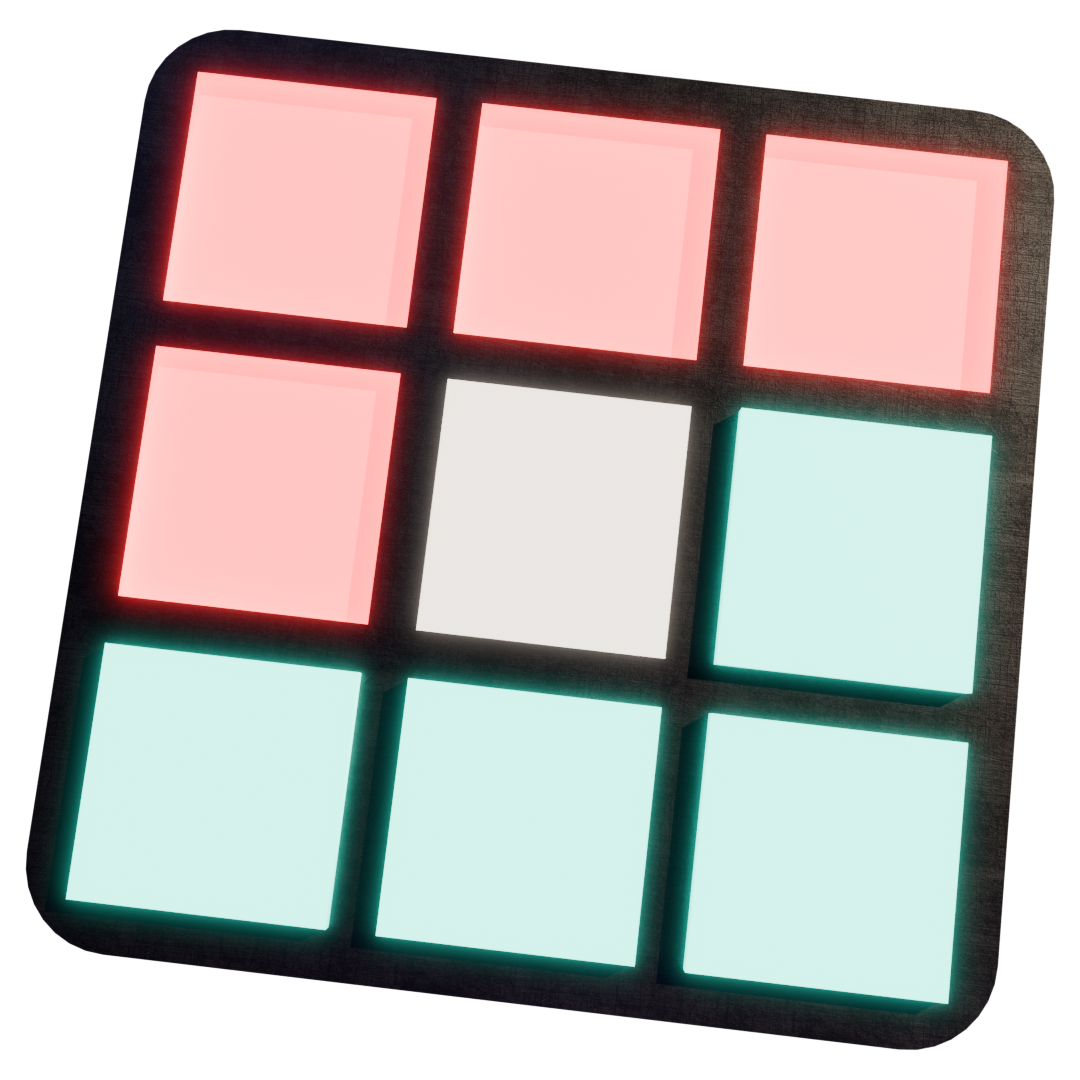
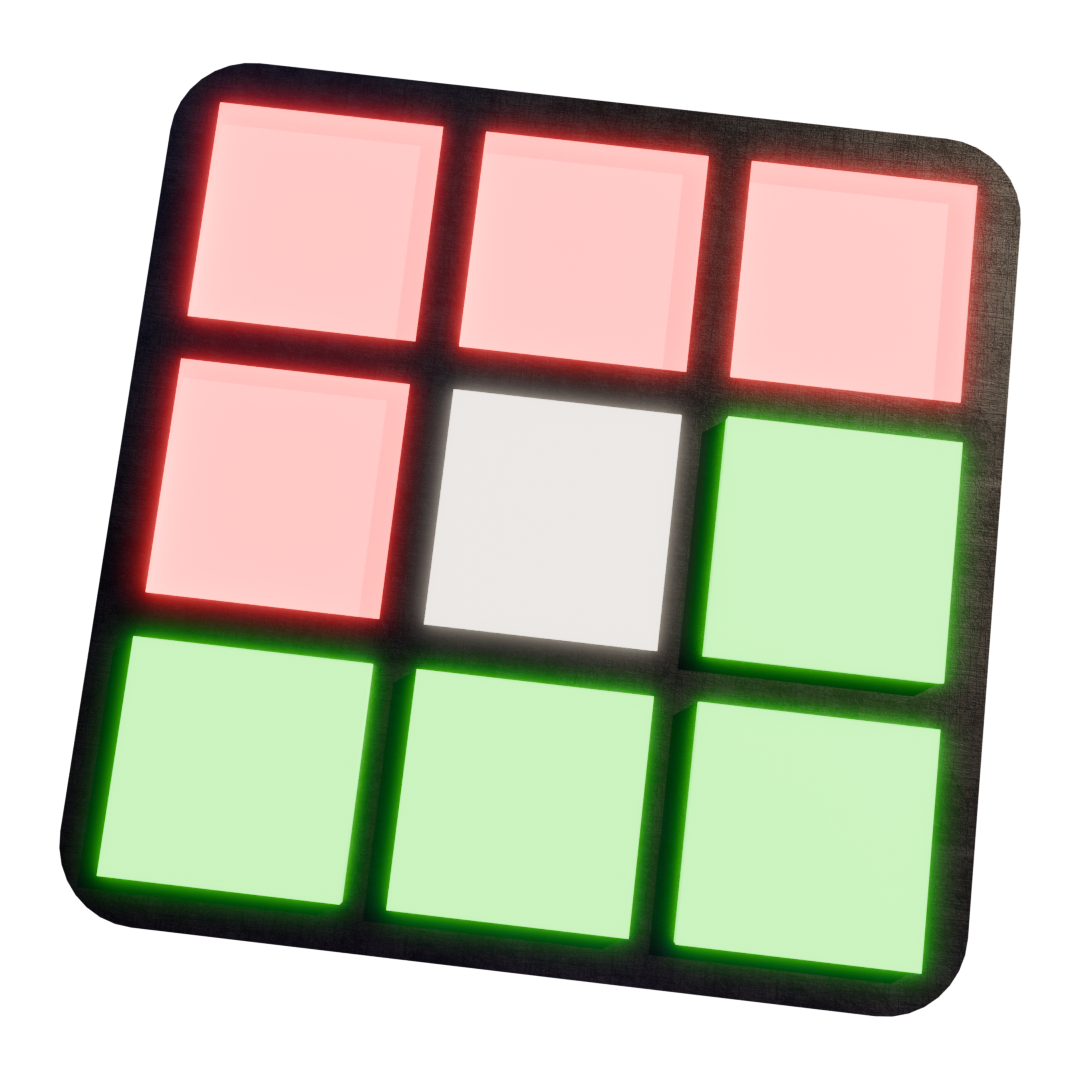
Added polish to Wordsle: > New instructions popup. > New popups for winning and losing that display guesses used or correct answer. > Fixed submit button sizing issues.
Reworked home page:
> Changed Wordsle logo to transparent background, and to match new colours.
> Changed SegFault logo to also have transparent background, and brightened colours.
> Removed placeholder section, to be added back when I decide on a third project.

diff --git a/CSS/style.css b/CSS/style.css
@@ -203,6 +203,7 @@
     margin-top: 4vh;
     margin-right: 3vh;
     width: 100%;
+    
 }
 
 
@@ -215,6 +216,74 @@
 
 
 #wordsleButton:active{
+    box-shadow: 0px 0px 30px 8px rgba(0, 255, 225, 0.5);
+    background-color: #00ffe1;
+}
+
+
+
+#wordsleSubmit{
+    height: 7.5vh;
+}
+
+
+
+#wordsleStatusBox{
+    z-index: 49;
+    position: fixed;
+    top: 50vh;
+    left: 50vw;
+    transform: translate(-50%, -50%);
+
+    background: #333;
+    box-shadow: 0px 0px 32px 2px rgba( 34, 208, 187, 0.37 );
+    backdrop-filter: blur( 10px );
+    -webkit-backdrop-filter: blur( 10px );
+    border-radius: 5px;
+    color: rgb(255, 255, 255);
+
+    text-align: center;
+    vertical-align: middle;
+    align-content: center;
+    width: 40%;
+    height: fit-content;
+}
+
+
+
+#wordsleStatusTitle{
+    margin: 10%;
+}
+
+
+
+#wordsleStatusText{
+    margin: 10%;
+}
+
+
+
+#wordsleStatusButton{
+    margin: 10%;
+
+    color: white;
+    background-color: #22d0bb;
+    border: #333;
+    text-align: center;
+    vertical-align: middle;
+    font-size: 250%;
+}
+
+
+
+#wordsleStatusButton:hover{
+    box-shadow: 0px 0px 30px 8px rgba(42, 255, 230, 0.5);
+    background-color: #22d0bb;
+}
+
+
+
+#wordsleStatusButton:active{
     box-shadow: 0px 0px 30px 8px rgba(0, 255, 225, 0.5);
     background-color: #00ffe1;
 }
@@ -235,7 +304,6 @@
         font-size: 280%;       
     }
 
-
 }
 
 
@@ -252,6 +320,10 @@
 
     #wordsleButton{
         font-size: 227.5%;      
+    }
+    
+    #wordsleSubmit{
+        height: 6.5vh;
     }
 
 
@@ -286,6 +358,14 @@
         font-size: 175%;  
     }
 
+    #wordsleStatusBox{
+        width: 60%;
+    }
+    
+    #wordsleSubmit{
+        height: 6vh;
+    }
+
 
 }
 
@@ -314,7 +394,23 @@
         font-size: 122.5%;        
     }
 
+    #wordsleStatusButton{
+        font-size: 200%;
+    }
+    
+    #wordsleSubmit{
+        height: 5.5vh;
+    }
 
+
+}
+
+
+
+@media only screen and (max-width: 700px) {
+    #wordsleSubmit{
+        height: 5vh;
+    }    
 }
 
 
@@ -344,6 +440,18 @@
         width: fit-content; 
     }
 
+    #wordsleStatusBox{
+        width: 80%;
+    }
+
+    #wordsleStatusButton{
+        font-size: 150%;
+    }
+    
+    #wordsleSubmit{
+        height: 4vh;
+    }
+
 }
 
 
@@ -352,5 +460,13 @@
     #wordsleButton{
         font-size: 80%;  
         width: fit-content;
+    }
+
+    #wordsleStatusBox{
+        width: 90%;
+    }
+    
+    #wordsleSubmit{
+        height: 3vh;
     }
 }

diff --git a/Scripts/wordsle.js b/Scripts/wordsle.js
@@ -1,6 +1,11 @@
 const inputBox = document.getElementById("wordsleInput");
 const inputCard = document.getElementById("wordsleInputCard");
 
+const statusTitle = document.getElementById("wordsleStatusTitle");
+const statusText = document.getElementById("wordsleStatusText");
+const statusButton = document.getElementById("wordsleStatusButton");
+const statusBox = document.getElementById("wordsleStatusBox");
+
 const submitButton = document.getElementById("wordsleButton");
 
 const rowOne = document.getElementById("wordsleR1");
@@ -62,7 +67,7 @@ function validateInput()
         }
     }
 
-    if(text.length == 5 && wrongLetters == false)
+    if(text.length == 5)
     {
         return true;
     }
@@ -83,6 +88,50 @@ function validateInput()
 
         return false;
     }
+}
+
+
+
+function closeStatus()
+{
+    statusBox.style.zIndex = -1;
+    statusBox.style.visibility = "hidden";
+    statusButton.disabled = true;
+}
+
+
+
+function doWin()
+{
+    statusBox.style.zIndex = 49;
+    statusBox.style.visibility = "visible";
+    statusButton.disabled = false;
+
+    if(guesses == 5)
+    {
+        winningText = "You used " + (6 - guesses) + " guess.";
+    }
+    else
+    {
+        winningText = "You used " + (6 - guesses) + " guesses.";
+    }
+
+    statusTitle.innerHTML = "You Win!"
+    statusText.innerHTML = winningText;
+}
+
+
+
+function doLose()
+{
+    statusBox.style.zIndex = 49;
+    statusBox.style.visibility = "visible";
+    statusButton.disabled = false;
+
+    losingText = "The correct word was " + todaysWord + ".";
+
+    statusTitle.innerHTML = "You Lose!";
+    statusText.innerHTML = losingText;
 }
 
 
@@ -192,8 +241,17 @@ function check_word(word, target_word)
 
     guesses -= 1
 
-    console.log(goal_checklist)
-    console.log(guess_print)
+    if(word == target_word)
+    {
+        won = true;
+        doWin();
+    }
+
+    else if(guesses == 0)
+    {
+        lost = true;
+        doLose()
+    }
     
 }
 
@@ -206,7 +264,7 @@ function getInput()
     let text = inputBox.value;
     text = text.toUpperCase();
 
-    if(check == true && guesses > 0)
+    if(check == true && guesses > 0 && won == false && lost == false)
     {
         check_word(text, todaysWord);
     }
@@ -223,4 +281,8 @@ inputBox.addEventListener("keydown", function (e) {
         getInput();
     }
 });
+
+statusButton.addEventListener("click", function (e) {
+        closeStatus();
+})
 

diff --git a/index.html b/index.html
@@ -54,12 +54,15 @@
 
 
         <div class="row mainCardRow">
+
+            <div class="col-lg-1 d-flex justify-content-center"></div>
+
             <div class="col-lg-4 d-flex justify-content-center">
 
                 <div class="card tempCard">
                     <div class="row justify-content-center">
                         <div class="col-lg">
-                            <img class="card-img" src="Images/wordsle1.png" alt="Wordsle Logo, a black metal grid with glowing blue and red squares.">
+                            <img class="card-img" src="Images/wordsle2.png" alt="Wordsle Logo, a black metal grid with glowing blue and red squares.">
                         </div>
                     </div>
 
@@ -75,13 +78,14 @@
 
             </div>
 
+            <div class="col-lg-2 d-flex justify-content-center"></div>
 
             <div class="col-lg-4 d-flex justify-content-center">
                 <div class="card tempCard">
 
                     <div class="row justify-content-center">
                         <div class="col-lg">
-                            <img class="card-img" src="Images/SegFault.jpg" alt="Segmentation Fault logo, a blue and orange S and F over a white eye.">
+                            <img class="card-img" src="Images/SegFault1.png" alt="Segmentation Fault logo, a blue and orange S and F over a white eye.">
                         </div>
                     </div>
 
@@ -95,8 +99,10 @@
 
                 </div>
             </div>
-                
 
+            <div class="col-lg-1 d-flex justify-content-center"></div>
+                
+            <!--
             <div class="col-lg-4 d-flex justify-content-center">
                 <div class="card tempCard">
 
@@ -116,6 +122,7 @@
 
                 </div>
             </div>
+            --->
                 
                 
         </div>

diff --git a/wordsle.html b/wordsle.html
@@ -480,7 +480,7 @@
 
                     <div class="row justify-content-center">
                         <div class="col-lg cardBody">
-                            <input id="wordsleInput" type="text" maxlength="5" placeholder="Guess a letter..." autocapitalize="on"></input>
+                            <input id="wordsleInput" type="text" maxlength="5" placeholder="Guess a word..." autocapitalize="on"></input>
                         </div>
                     </div>
 
@@ -490,9 +490,22 @@
 
             <div class="col-2 d-flex justify-content-center">
 
-                <button type="button" class="btn btn-primary btn-lg btn-block" id="wordsleButton"> ↩ </button>
+                <button type="button" class="btn btn-primary btn-lg btn-block" id="wordsleButton"> <img id="wordsleSubmit" src="Images/submitIcon.png"></img> </button>
 
             </div>
+        </div>
+
+        <div class="card" id="wordsleStatusBox">
+            <div class="row justify-content-center">
+                <div class="col-lg cardBody">
+                    <h1 id="wordsleStatusTitle">How To Play:</h1>
+                    <h3 id="wordsleStatusText">Type a word in the text box and hit the button to make a guess. Letters in the CORRECT SPOT will turn GREEN.
+                        Letters in the word, but in the WRONG SPOT will turn RED. Letters not in the word will stay GREY.
+                    </h3>
+                    <button type="button" class="btn btn-primary btn-lg btn-block" id="wordsleStatusButton">Close</button>
+                </div>
+            </div>
+        </div>
 
     </div>
 
